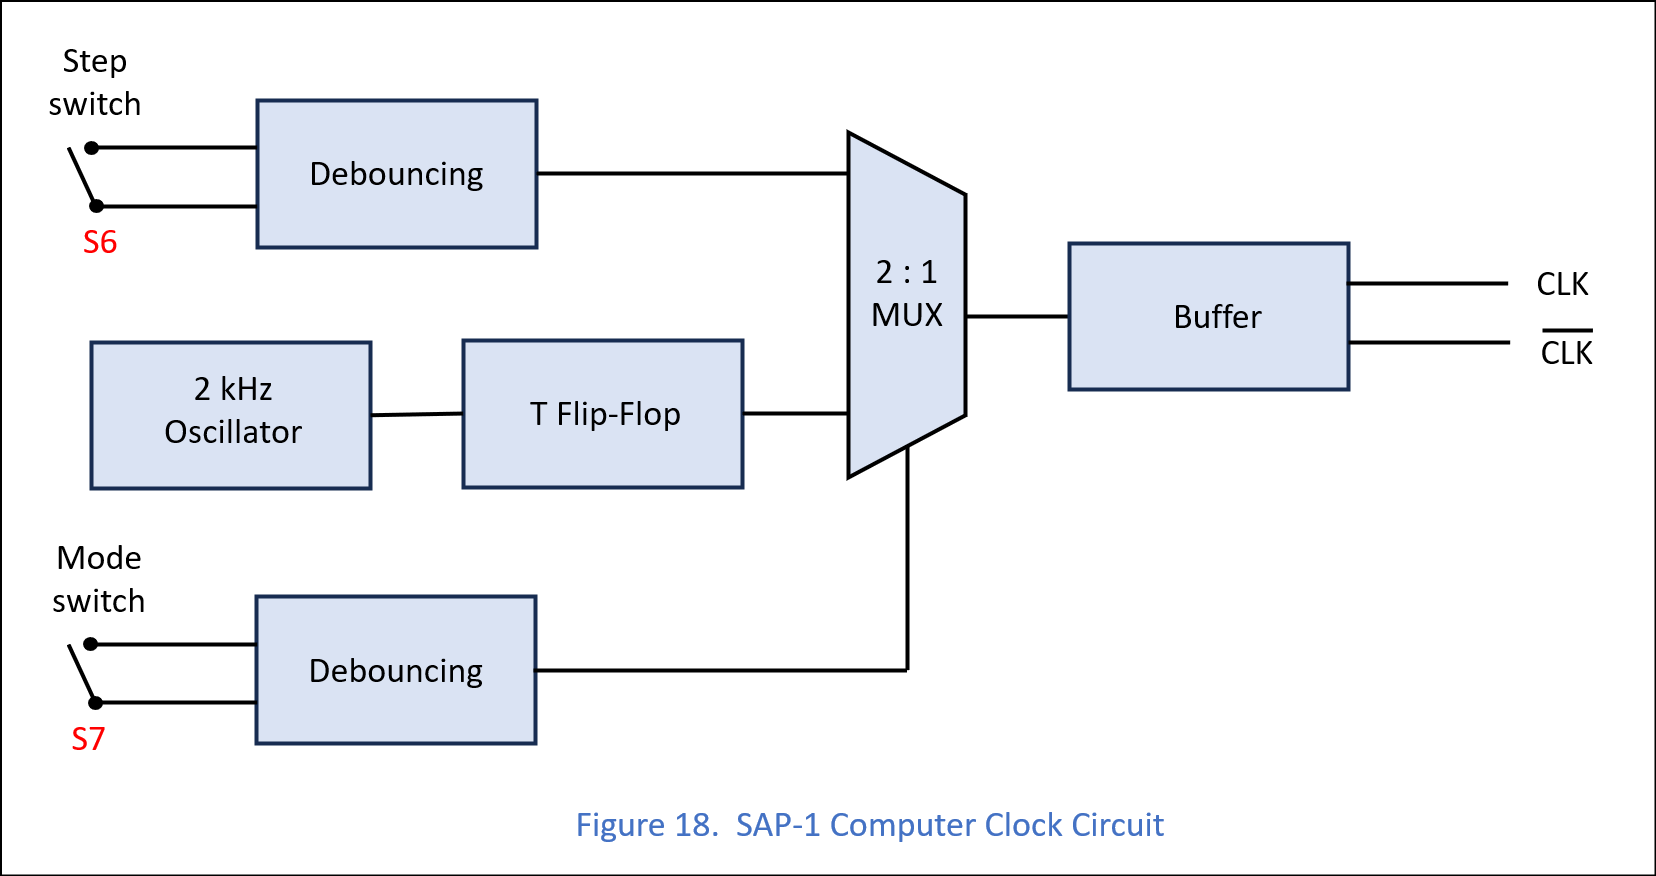
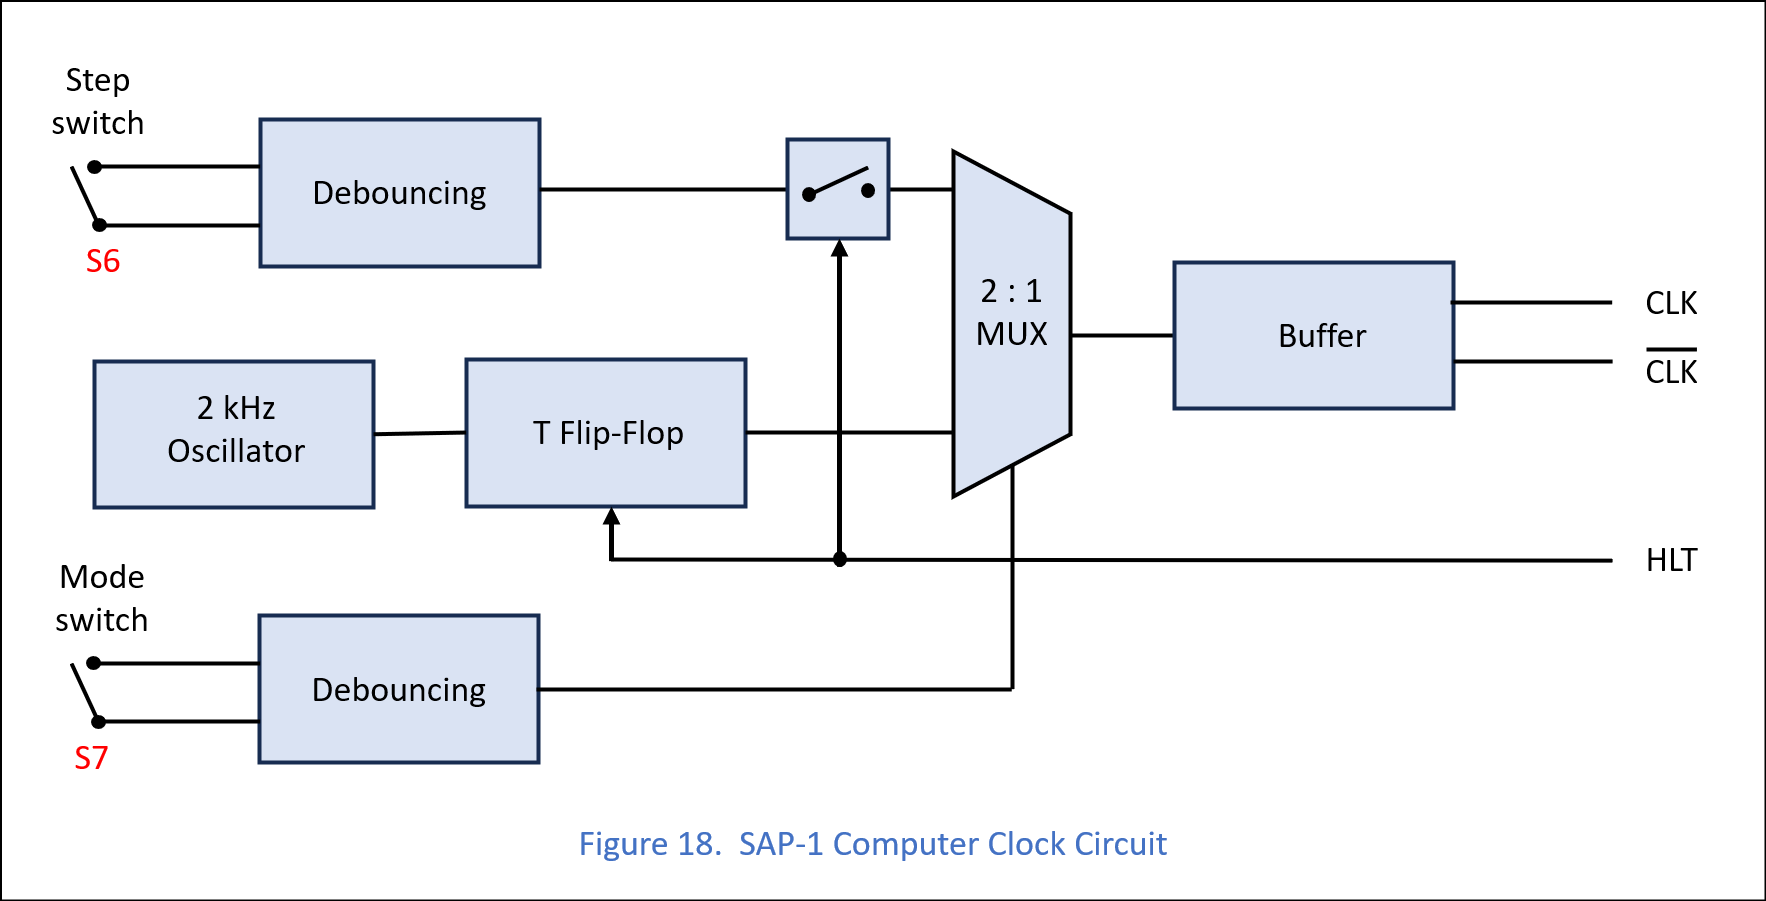
new file:   SAP-1_Computer/Pictures/Figure19.png

diff --git a/SAP-1_Computer/README.md b/SAP-1_Computer/README.md
@@ -197,3 +197,10 @@ The output of the multiplexer is taken by the buffer. Its role is to ensure the 
 
 ![ Figure 18 ](https://github.com/LincaMarius/ISAP-1_Computer_Project/blob/main/SAP-1_Computer/Pictures/Figure18.png)
 
+The HLT input inhibits the clock signal when the computer has executed the HALT instruction.
+
+### SAP-1 Computer architecture
+The architecture of the SAP-1 computer up to this point is as follows:
+
+![ Figure 19 ](https://github.com/LincaMarius/ISAP-1_Computer_Project/blob/main/SAP-1_Computer/Pictures/Figure19.png)
+
